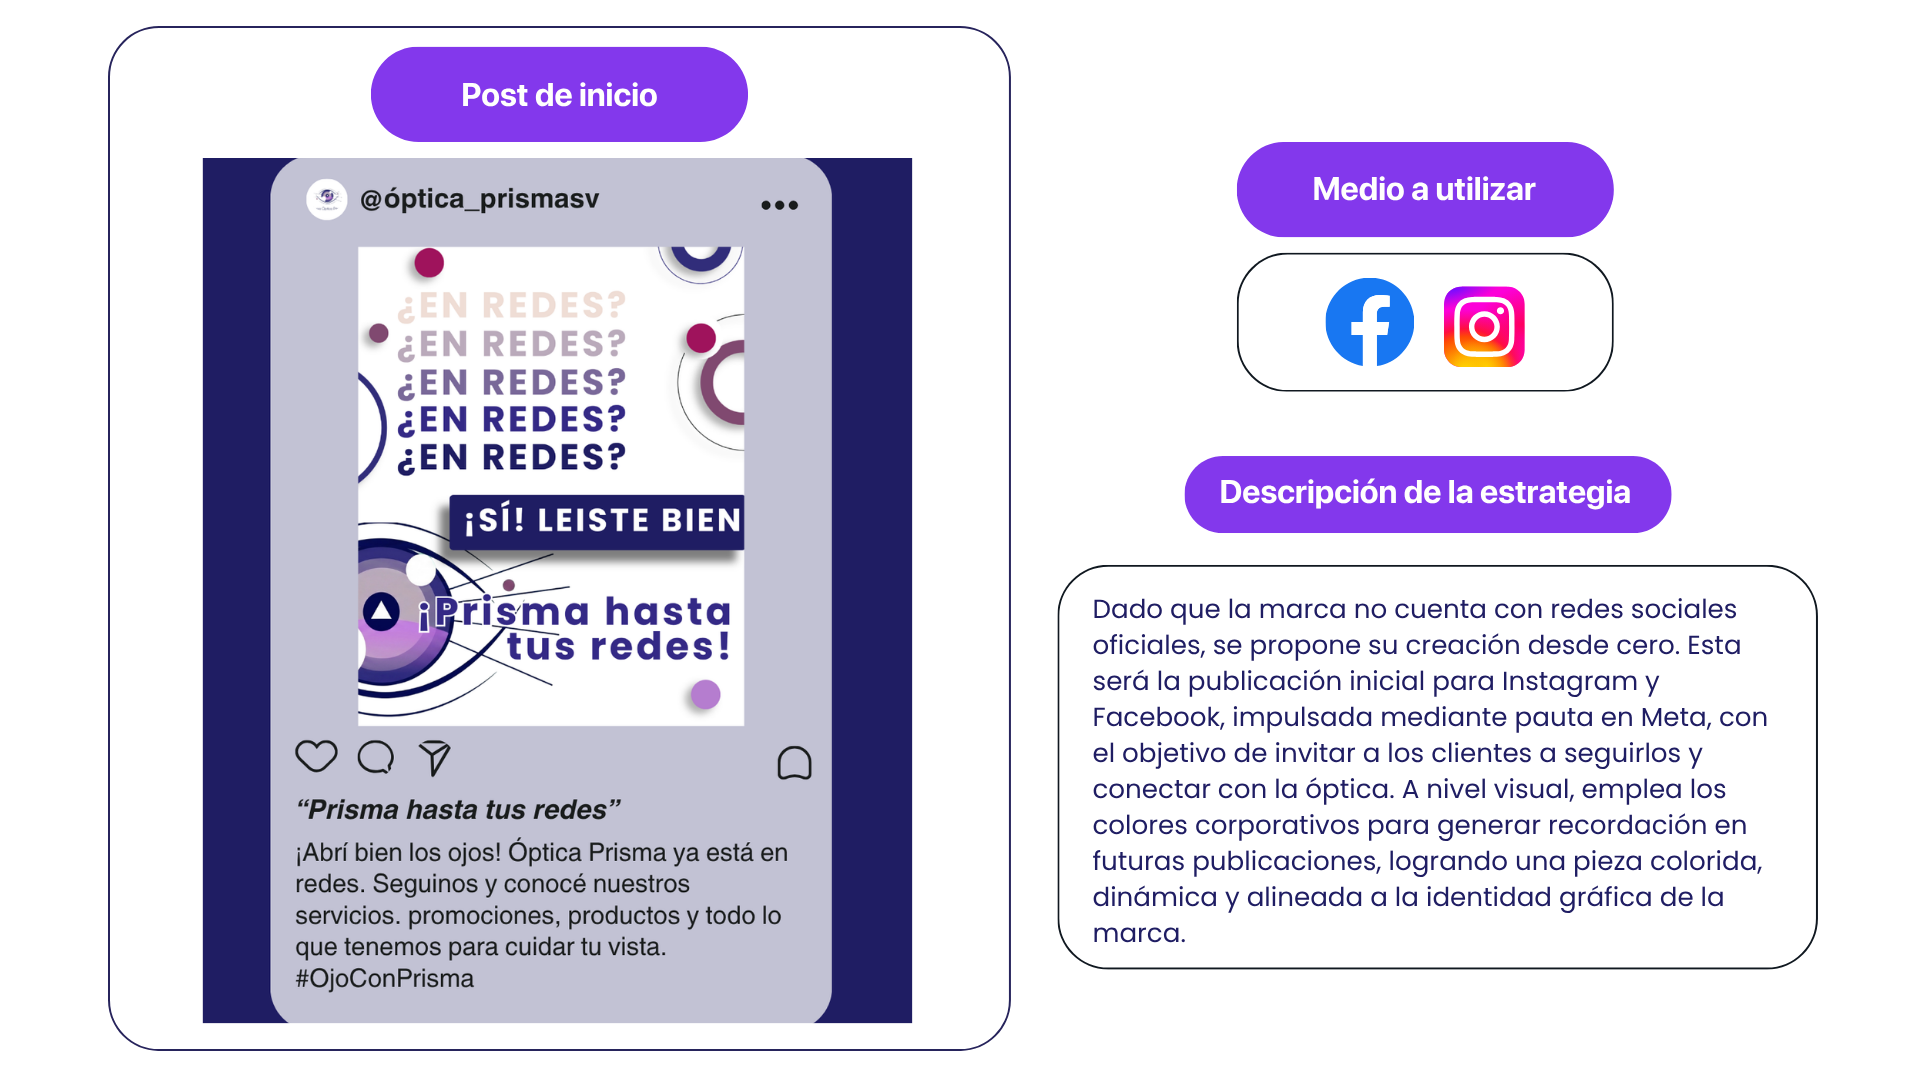
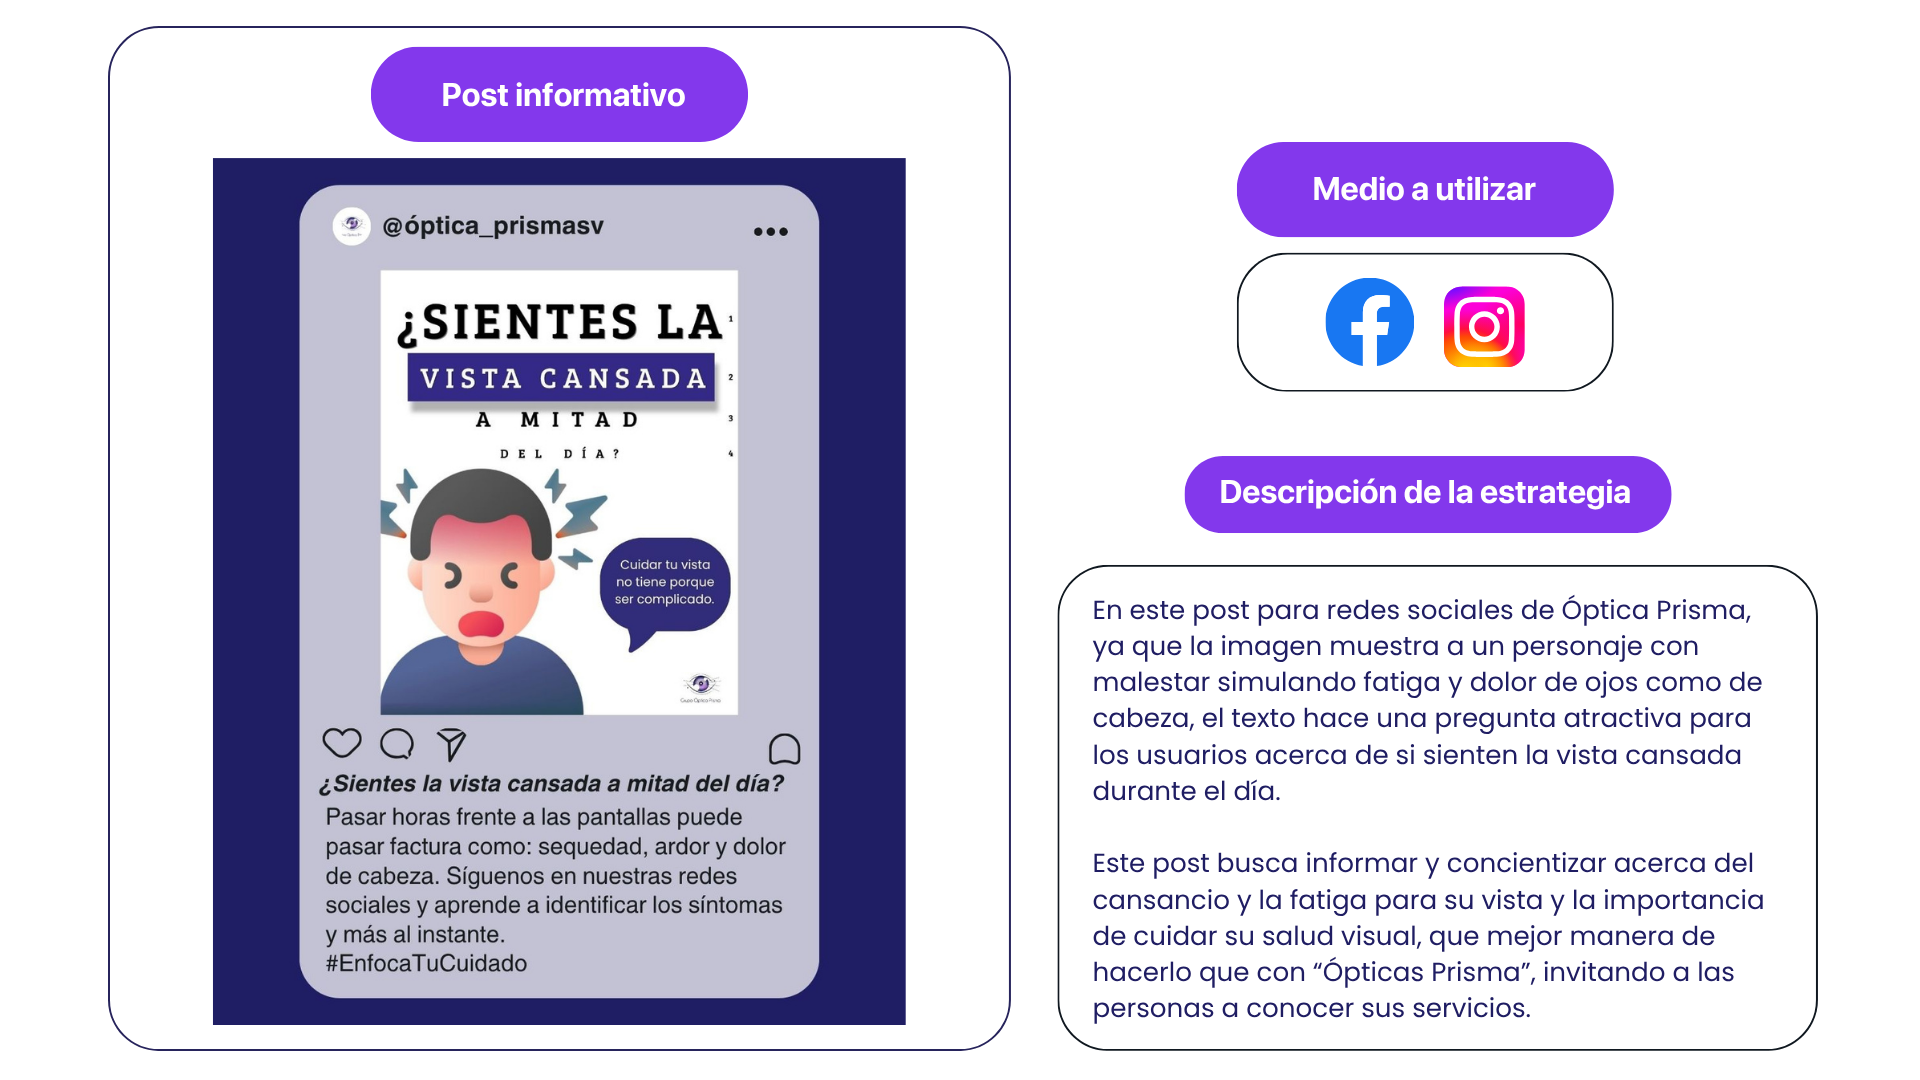
mejoras unidad2

Changed region(s): [[0.0938, 0.0611, 0.4375, 0.9472], [0.5625, 0.55, 0.9375, 0.9472], [0.4688, 0.1528, 0.5, 0.9472]]

diff --git a/unidad2.html b/unidad2.html
@@ -51,19 +51,19 @@
     </main>
 
     <!-- Footer -->
-    <footer class="footer">
-        <div class="footer-container">
-            <div class="footer-left">
-                <span class="footer-institution">UNIVERSIDAD DON BOSCO, FACULTAD DE HUMANIDADES</span>
-                <span class="footer-label">EQUIPO DE TRABAJO:</span>
-                <span class="footer-names">ANDREA CRUZ – CINDY PINEDA – YARA LINARES – JUDITH AZUCENA</span>
-            </div>
-            <div class="footer-right">
-                <span class="footer-label">FACILITADOR</span>
-                <span class="footer-names">RODOLFO ALIRIO CORNEJO FAJARDO</span>
-            </div>
-        </div>
-    </footer>
+  <footer class="footer">
+  <div class="footer-container">
+    <div class="footer-left">
+      <p class="footer-institution">UNIVERSIDAD DON BOSCO, FACULTAD DE HUMANIDADES</p>
+      <p class="footer-label">EQUIPO DE TRABAJO:</p>
+      <p class="footer-names">ANDREA CRUZ - CINDY PINEDA - YARA LINARES - JUDITH GARCÍA</p>
+    </div>
+    <div class="footer-right">
+      <p class="footer-labelone">FACILITADOR</p>
+      <p class="footer-names">RODOLFO ALIRIO CORNEJO FAJARDO</p>
+    </div>
+  </div>
+</footer>
 
     <!-- Script Loader para la Unidad 2 -->
     <script src="js/loaderUnidad2.js"></script>

diff --git a/css/unidad2.css b/css/unidad2.css
@@ -184,7 +184,7 @@ body {
 }
 
 .footer-institution,
-.footer-label,
+.footer-labelone
 .footer-names {
   font-size: 0.85rem;
   font-weight: 700;
@@ -383,7 +383,7 @@ body {
 .card-list li {
   font-size: 0.82rem;
   line-height: 1.5;
-  color: #222222;
+  color: #9f135c;
   font-weight: 700;
   text-align: left;
   text-transform: uppercase;
